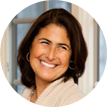
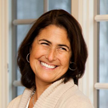
bubble message updated

diff --git a/demo/template.css b/demo/template.css
@@ -470,18 +470,25 @@ body {
 #intercom-container .notification-profile-container {
   border-radius: 50%;
   position: absolute;
-  bottom: 0;
-  right: 0;
+  top: 0;
+  left: 0;
   z-index: 100;
   box-shadow: 0 0 31px -2px rgba(0,0,0,0.75);
+  height: 100%;
+}
+
+#intercom-container .notification-profile-container svg {
+  position: absolute;
+  left: 0;
+  top: 0;
 }
 
 #intercom-container .notification-profile-container img {
+  -webkit-clip-path: url('#notification-profile-mask');
+  clip-path: url('#notification-profile-mask');
   height: 100%;
   width: 100%;
   position: relative;
-  top: 4px;
-  left: -1px;
   cursor: pointer;
 }
 
@@ -491,18 +498,6 @@ body {
   width: 20px;
   top: -5px;
   right: -5px;
-}
-
-#intercom-container .intercom-launcher-button.small .arrow-down {
-  position: absolute;
-  bottom: -3px;
-  left: 0;
-  width: 0;
-  height: 0;
-  border-left: 3px solid transparent;
-  border-right: 3px solid transparent;
-  border-top: 8px solid #ff2d50;
-  transform: rotate(33deg);
 }
 
 #intercom-container .intercom-launcher-button.small .intercom-launcher-notification {
@@ -542,17 +537,6 @@ body {
 
 #intercom-container .notification-container .intercom-comment-body-container .intercom-comment-body.intercom-embed-body p span {
   cursor: pointer;
-}
-
-#intercom-container .notification-container .intercom-comment-body-container .arrow-up {
-  position: absolute;
-  top: -4px;
-  right: 30px;
-  width: 0;
-  height: 0;
-  border-left: 5px solid transparent;
-  border-right: 5px solid transparent;
-  border-bottom: 5px solid white;
 }
 
 /* End Notifications CSS */

diff --git a/index.html b/index.html
@@ -115,16 +115,22 @@
     <div id="intercom-container" class="intercom-container intercom-reset intercom-acquire">
       <div class="intercom-launcher">
         <div class="notification-profile-container">
+          <svg width="0" height="0">
+            <defs>
+              <clipPath id="notification-profile-mask">
+                <polygon cx="23" cy="23" points="0,46 6,30 12,40" />
+                <circle cx="23" cy="23" r="23" />
+              </clipPath>
+            </defs>
+          </svg>
           <img src="./demo/admin-avatar.png">
         </div>
         <div class="intercom-launcher-button small intercom-launcher-button-high-contrast">
           <div class="intercom-launcher-notification"> 1 </div>
-          <div class="arrow-down"></div>
         </div>
       </div>
       <div class="notification-container">
         <div class="intercom-comment-body-container">
-          <div class="arrow-up"></div>
           <div class="intercom-comment-body intercom-embed-body">
             <p>
               <span class="display-name">Judy</span>
